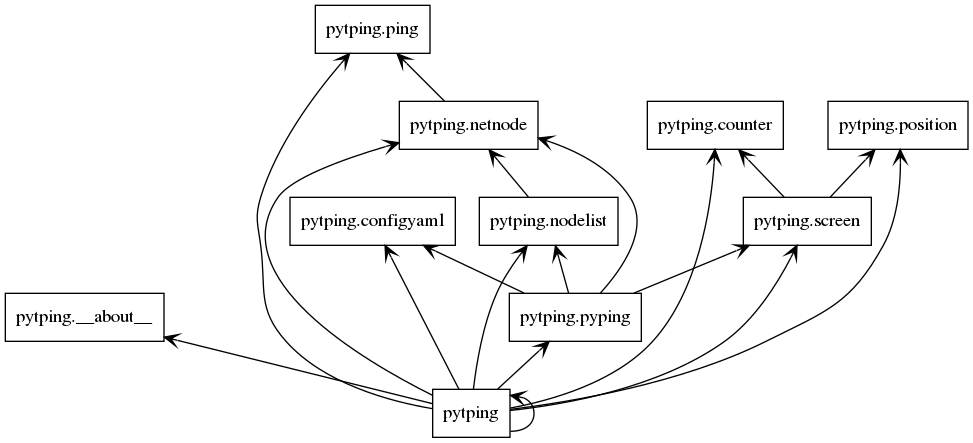
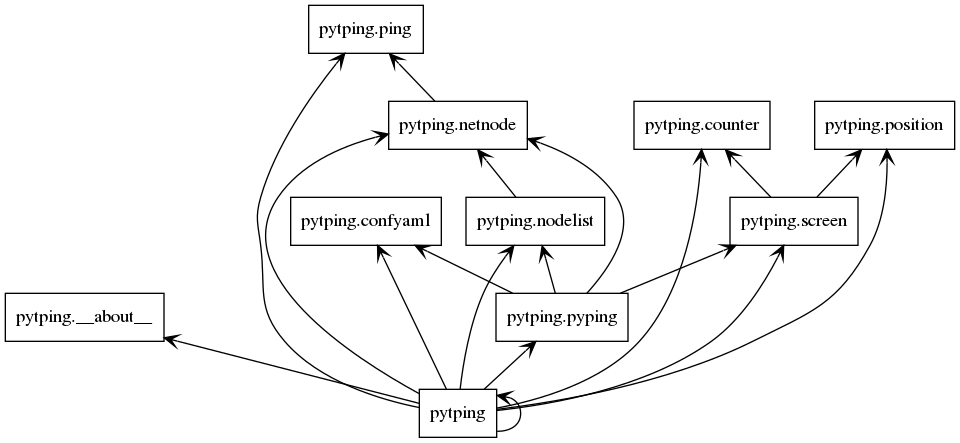
improve ConfigYAML

diff --git a/pytping/confyaml.py b/pytping/confyaml.py
@@ -1,0 +1,102 @@
+#!/usr/bin/env python3
+# -*- coding: utf-8 -*-
+"""
+
+#     #    #    #     # #
+ #   #    # #   ##   ## #
+  # #    #   #  # # # # #
+   #    #     # #  #  # #
+   #    ####### #     # #
+   #    #     # #     # #
+   #    #     # #     # #######
+
+"""
+
+import pathlib
+import yaml
+
+
+class Default:
+    encode = 'utf-8'
+    msg_ioerror = "File not found !"
+    msg_badyaml = "Can't load the YAML..."
+    key_filename = 'filename'
+    key_data = 'data'
+
+
+class ConfigYAML(dict):
+    """
+    This class manage YAML config file
+
+    Property:
+        - filename (str): /path/to/the/config/file
+        - config (dict)
+
+    Use:
+        >>> import pathlib
+        >>> path_pyth = (pathlib.Path(__file__).resolve().parent)
+        >>> conf = pathlib.PurePath(path_pyth, '../bin/config.yml.samp')
+        >>> config = ConfigYAML(conf)
+        Traceback (most recent call last):
+        ...
+        OSError: File not found !
+        >>> conf = pathlib.PurePath(path_pyth, '../LICENSE')
+        >>> config = ConfigYAML(conf)
+        Traceback (most recent call last):
+        ...
+        ValueError: Can't load the YAML...
+        >>> conf = pathlib.PurePath(path_pyth, '../bin/config.yml.sample')
+        >>> config = ConfigYAML(conf)
+        >>> print(config['Internet access'])
+        {'host': 'www.google.fr', 'port': 80}
+        >>> print(config.keys())
+        dict_keys(['Internet access', 'vCenter', 'ESX1', 'ESX2'])
+        >>> print(len(config))
+        4
+    """
+    def __init__(self, filename):
+        self.__set_filename(filename)
+        self.__getconfig()
+
+    def __set_filename(self, filename):
+        if pathlib.Path(filename).exists():
+            self.__dict__[Default.key_filename] = filename
+        else:
+            raise IOError(Default.msg_ioerror)
+
+    def __getconfig(self):
+        """
+        @Property:
+            config (dict)
+        """
+        with open(self.__dict__[Default.key_filename], 'r') as yaml_file:
+            try:
+                self.__dict__[Default.key_data] = yaml.load(yaml_file)
+            except yaml.YAMLError:
+                raise ValueError(Default.msg_badyaml)
+
+    def __getitem__(self, key):
+        return self.__dict__[Default.key_data][key]
+
+    def __len__(self):
+        return len(self.__dict__[Default.key_data])
+
+    def __iter__(self):
+        return iter(self.__dict__[Default.key_data])
+
+    def __repr__(self):
+        return str(self.__dict__)
+
+    def __str__(self):
+        return repr(self)
+
+    def keys(self):
+        return self.__dict__[Default.key_data].keys()
+
+    def items(self):
+        return self.__dict__[Default.key_data].items()
+
+
+if __name__ == "__main__":
+    import doctest
+    doctest.testmod()

diff --git a/pytping/pyping.py b/pytping/pyping.py
@@ -12,7 +12,7 @@
 """
 
 from pytping.screen import ScreenCurses
-from pytping.configyaml import ConfigYAML
+from pytping.confyaml import ConfigYAML
 from pytping.netnode import NetworkNode
 from pytping.nodelist import NetworkNodeList
 
@@ -25,8 +25,7 @@ class PythonPing(object):
     Launch the screen manager
     """
     def __init__(self, inputfile):
-        self.__yaml = ConfigYAML(inputfile)
-        self.__config = self.__yaml.config
+        self.__config = ConfigYAML(inputfile)
         self.__host_list = NetworkNodeList()
         for label in self.__config:
             current_node = NetworkNode(label,

diff --git a/pytping/__init__.py b/pytping/__init__.py
@@ -136,7 +136,7 @@ from pytping.position import ElementPosition
 from pytping.counter import Counter
 from pytping.screen import ScreenCurses
 from pytping.ping import PingNetworkNode
-from pytping.configyaml import ConfigYAML
+from pytping.confyaml import ConfigYAML
 from pytping.netnode import NetworkNode
 from pytping.nodelist import NetworkNodeList
 from pytping.pyping import PythonPing

diff --git a/tests/test_doctest.py b/tests/test_doctest.py
@@ -18,7 +18,7 @@ import unittest
 import subprocess
 from pytping import __about__
 
-modulelist = ['configyaml.py',
+modulelist = ['confyaml.py',
               'counter.py',
               'ping.py',
               'position.py',

diff --git a/README.md b/README.md
@@ -159,9 +159,16 @@ zope==4.0b4
 
 ### Objects
 [ConfigYAML()](#configyaml)<br />
-[@Property: ConfigYAML.config](#property-configyamlconfig)<br />
-[@Property: ConfigYAML.filename](#property-configyamlfilename)<br />
+[ConfigYAML.__getconfig(self)](#configyaml__getconfigself)<br />
+[ConfigYAML.__getitem__(self, key)](#configyamlgetitemself-key)<br />
 [ConfigYAML.__init__(self, filename)](#configyamlinitself-filename)<br />
+[ConfigYAML.__iter__(self)](#configyamliterself)<br />
+[ConfigYAML.__len__(self)](#configyamllenself)<br />
+[ConfigYAML.__repr__(self)](#configyamlreprself)<br />
+[ConfigYAML.__set_filename(self, filename)](#configyaml__set_filenameself-filename)<br />
+[ConfigYAML.__str__(self)](#configyamlstrself)<br />
+[ConfigYAML.items(self)](#configyamlitemsself)<br />
+[ConfigYAML.keys(self)](#configyamlkeysself)<br />
 [Counter()](#counter)<br />
 [@Property: Counter.value](#property-countervalue)<br />
 [Counter.__init__(self, max_value)](#counterinitself-max_value)<br />
@@ -210,7 +217,7 @@ zope==4.0b4
 
 #### ConfigYAML()
 ```python
-class ConfigYAML(object):
+class ConfigYAML(dict):
 ```
 
 ```
@@ -224,32 +231,29 @@ Use:
     >>> import pathlib
     >>> path_pyth = (pathlib.Path(__file__).resolve().parent)
     >>> conf = pathlib.PurePath(path_pyth, '../bin/config.yml.sample')
-    >>> a = ConfigYAML(conf)
-    >>> print(a.config['Internet access'])
+    >>> config = ConfigYAML(conf)
+    >>> print(config['Internet access'])
     {'host': 'www.google.fr', 'port': 80}
+    >>> print(config.keys())
+    dict_keys(['Internet access', 'vCenter', 'ESX1', 'ESX2'])
+    >>> print(len(config))
+    4
 ```
 
-##### @Property: ConfigYAML.config
+##### ConfigYAML.__getconfig(self)
 ```python
-@property
-def ConfigYAML.config(self):
-
+def ConfigYAML.__getconfig(self):
 ```
 > <br />
 > <b>@Property:</b><br />
 > &nbsp;&nbsp;&nbsp;&nbsp;&nbsp;&nbsp;&nbsp;&nbsp;&nbsp;&nbsp;&nbsp;&nbsp;&nbsp;&nbsp;&nbsp;  config (dict)<br />
 > <br />
-##### @Property: ConfigYAML.filename
+##### ConfigYAML.__getitem__(self, key)
 ```python
-@property
-def ConfigYAML.filename(self):
-@filename.setter
-def ConfigYAML.filename(self, filename):
-
+def ConfigYAML.__getitem__(self, key):
 ```
 > <br />
-> <b>@Property:</b><br />
-> &nbsp;&nbsp;&nbsp;&nbsp;&nbsp;&nbsp;&nbsp;&nbsp;&nbsp;&nbsp;&nbsp;&nbsp;&nbsp;&nbsp;&nbsp;  filename (str): /path/to/the/config/file<br />
+> x.__getitem__(y) <==> x[y]<br />
 > <br />
 ##### ConfigYAML.__init__(self, filename)
 ```python
@@ -257,6 +261,55 @@ def ConfigYAML.__init__(self, filename):
 ```
 > <br />
 > Initialize self.  See help(type(self)) for accurate signature.<br />
+> <br />
+##### ConfigYAML.__iter__(self)
+```python
+def ConfigYAML.__iter__(self):
+```
+> <br />
+> Implement iter(self).<br />
+> <br />
+##### ConfigYAML.__len__(self)
+```python
+def ConfigYAML.__len__(self):
+```
+> <br />
+> Return len(self).<br />
+> <br />
+##### ConfigYAML.__repr__(self)
+```python
+def ConfigYAML.__repr__(self):
+```
+> <br />
+> Return repr(self).<br />
+> <br />
+##### ConfigYAML.__set_filename(self, filename)
+```python
+def ConfigYAML.__set_filename(self, filename):
+```
+> <br />
+> Docstring empty<br />
+> <br />
+##### ConfigYAML.__str__(self)
+```python
+def ConfigYAML.__str__(self):
+```
+> <br />
+> Return str(self).<br />
+> <br />
+##### ConfigYAML.items(self)
+```python
+def ConfigYAML.items(self):
+```
+> <br />
+> D.items() -> a set-like object providing a view on D's items<br />
+> <br />
+##### ConfigYAML.keys(self)
+```python
+def ConfigYAML.keys(self):
+```
+> <br />
+> D.keys() -> a set-like object providing a view on D's keys<br />
 > <br />
 #### Counter()
 ```python
